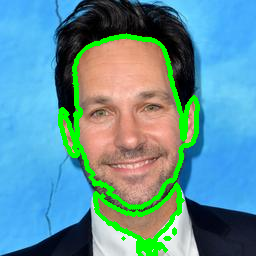
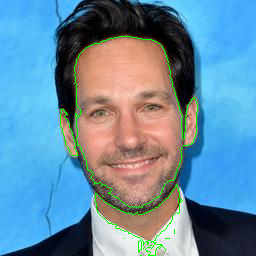
Camera Distance

Changed region(s): [[0.2188, 0.125, 0.7812, 1.0]]

diff --git a/face_detect.py b/face_detect.py
@@ -26,7 +26,6 @@ class Face_Detector():
 		'''
 		#get the RGB_H_CbCr representation of the image(for more info, please refer to skin_seg.py)
 		skin_img = self._skin_detect.RGB_H_CbCr(img,False)
-
 		contours, hierarchy = cv2.findContours(skin_img, cv2.RETR_EXTERNAL,cv2.CHAIN_APPROX_SIMPLE)
 		#cv2	.drawContours(img, contours, -1, (0,255,0), 1)
 		#cv2.imshow("faces",img)
@@ -38,8 +37,13 @@ class Face_Detector():
 			x, y, w, h = cv2.boundingRect(c)
 			# draw a green rectangle to visualize the bounding rect
 			if (w > size1[0] and h > size1[1]) and (w < size2[0] and h < size2[1]):
+				#pinhole distance
+				Distance1 = 11.5*(img.shape[1]/float(w))
+				#camera distance
+				Distance2 = 15.0*((img.shape[1] + 226.8)/float(w))
+				print("\npinhole distance = {:.2f} cm\ncamera distance = {:.2f} cm".format(Distance1,Distance2))
 				print("Width = {} \t Height = {}".format(w,h))
-				rects.append(np.asarray([x,y,w,h], dtype=np.uint16))
+				rects.append(np.asarray([x,y,w,w*1.25], dtype=np.uint16))
 		return rects
 	def Detect_Face_Vid(self,vid,size1,size2,scale_factor = 3):
 		'''this method implements the skin detection algorithm to perform a face detection in a given video file.
@@ -104,8 +108,8 @@ if __name__ == "__main__":
 		sys.exit(0)
 	in_arg = Arg_Parser()
 	skin_detect = Skin_Detect()
-	size1 = (25,47)
-	size2 = (90,90)
+	size1 = (50,50 )
+	size2 = (100,70)
 	scale_factor = 3
 	Face_Detect = Face_Detector(skin_detect)
 	if in_arg["image"] != None:
